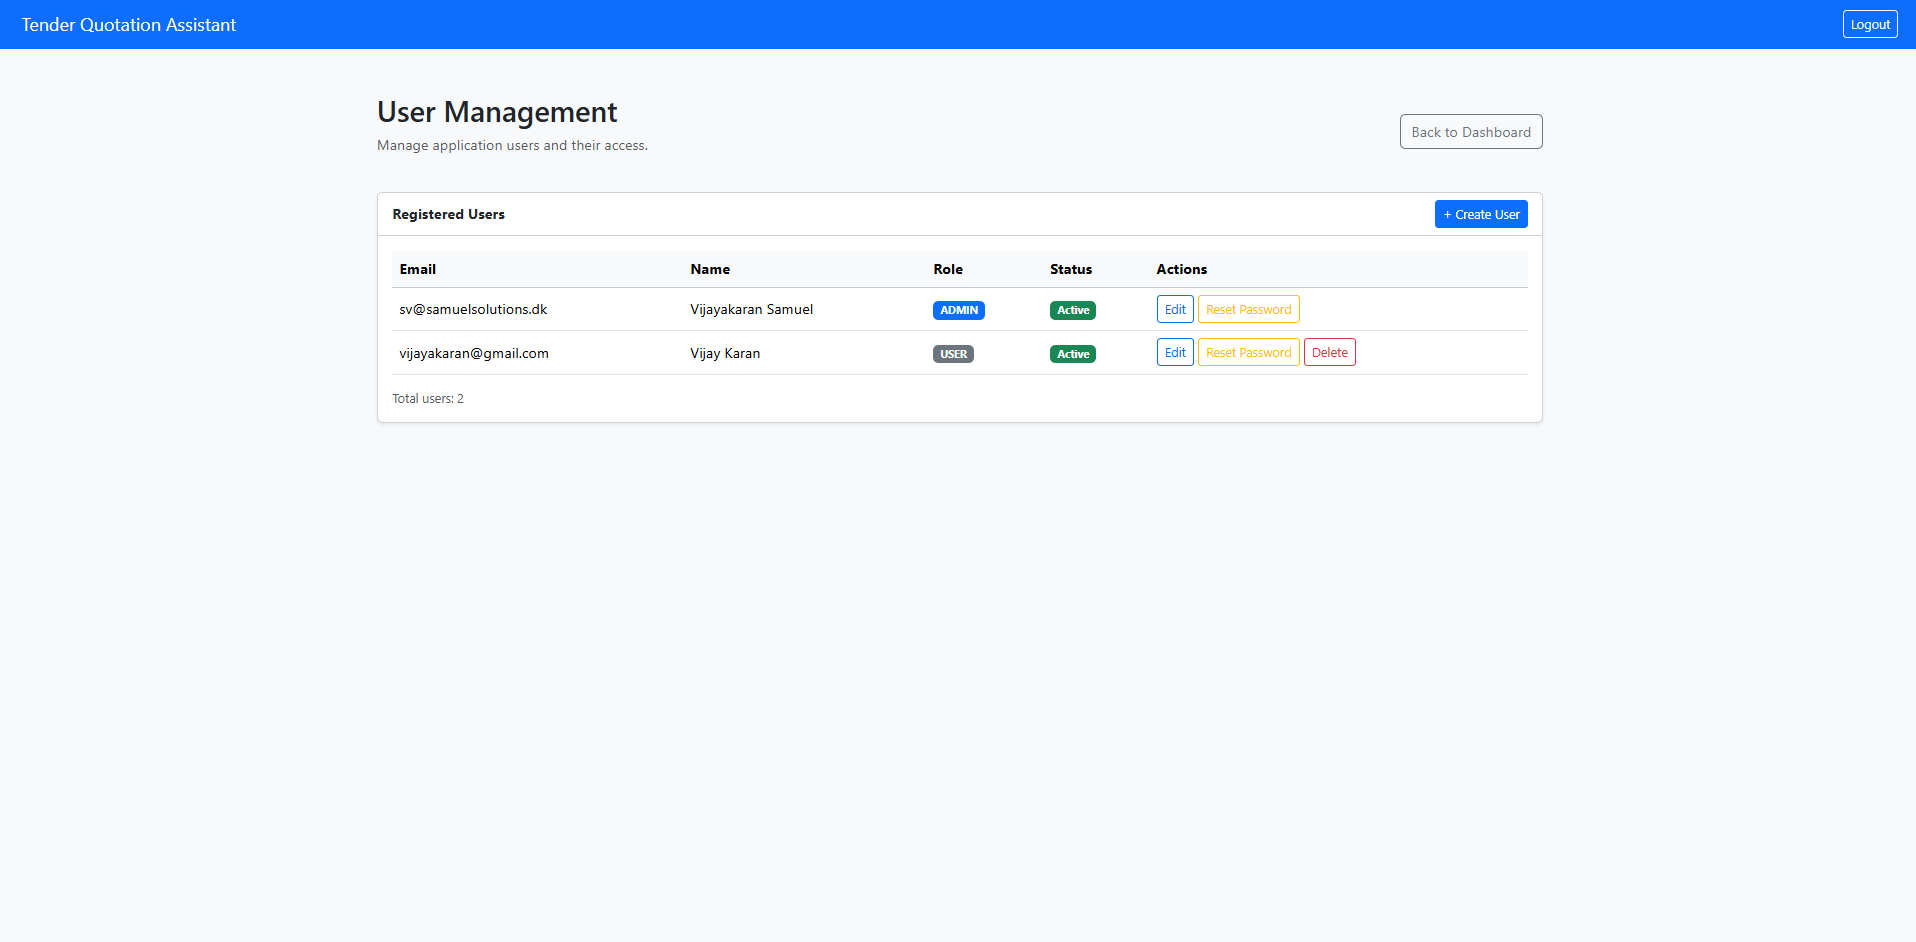
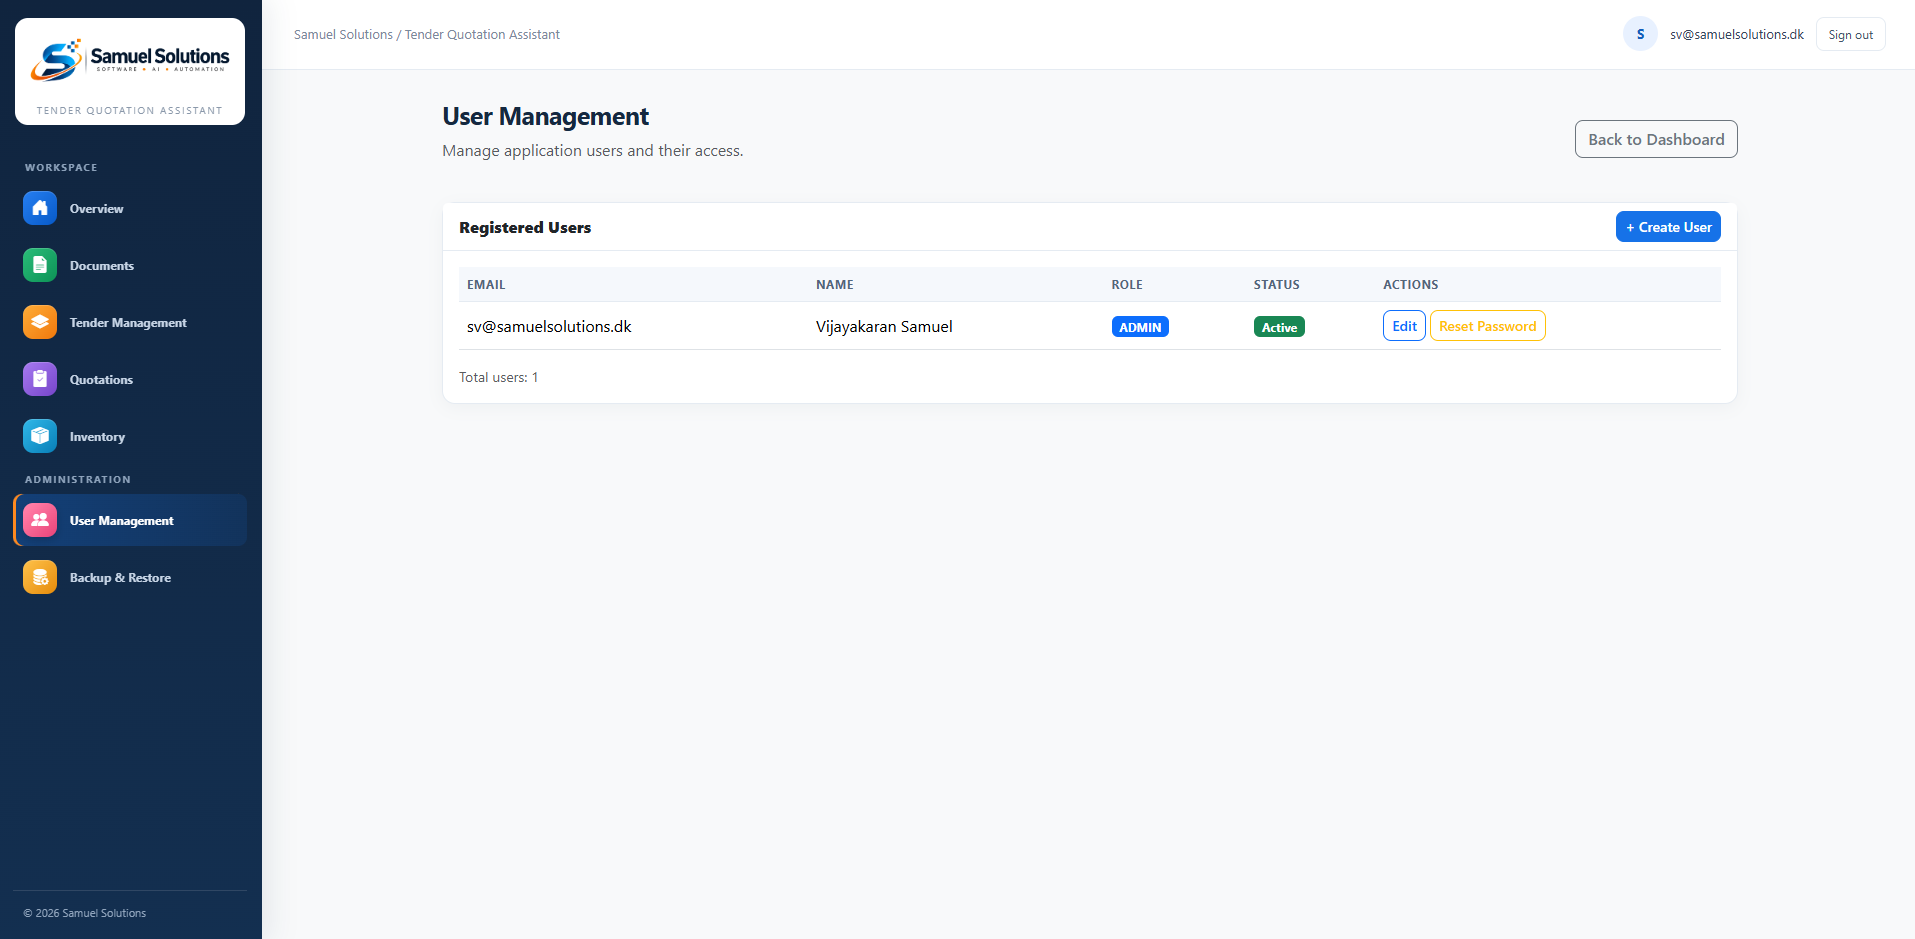
Tender screen short updated.

diff --git a/app/page.tsx b/app/page.tsx
@@ -669,45 +669,55 @@ export default function Home() {
 
               </div>
 
-              {/* RIGHT - APPLICATION SCREENSHOTS, ARRANGED LIKE PROJECT 02 */}
+              {/* RIGHT - CURRENT TENDER QUOTATION ASSISTANT SCREENS */}
               <div className="flex items-center justify-center bg-zinc-100 p-5 lg:p-6">
                 <div className="grid w-full grid-cols-2 gap-3">
                   {[
                     {
-                      src: "/projects/TenderAI/AdminDashboard.png",
-                      alt: "Tender Quotation Assistant admin dashboard",
+                      src: "/projects/TenderAI/Dashboard.png",
+                      alt: "Tender Quotation Assistant admin dashboard showing users, tenders and activity",
                       title: "Admin Dashboard",
                       featured: true,
                     },
                     {
-                      src: "/projects/TenderAI/UserManagement.png",
-                      alt: "User management",
-                      title: "User Management",
+                      src: "/projects/TenderAI/Login.png",
+                      alt: "Tender Quotation Assistant secure login screen",
+                      title: "Login",
                     },
                     {
-                      src: "/projects/TenderAI/DocumentManagement.png",
-                      alt: "Tender document management",
-                      title: "Document Management",
+                      src: "/projects/TenderAI/TenderUpload.png",
+                      alt: "Tender document upload screen",
+                      title: "Tender Upload",
                     },
                     {
-                      src: "/projects/TenderAI/InventoryManagement.png",
-                      alt: "Product inventory and pricing",
-                      title: "Inventory Management",
-                    },
-                    {
-                      src: "/projects/TenderAI/TenderManagement.png",
-                      alt: "Tender processing and status",
+                      src: "/projects/TenderAI/TenderAfterUpload.png",
+                      alt: "Tender management screen after document upload",
                       title: "Tender Management",
                     },
                     {
-                      src: "/projects/TenderAI/QuotationManagement.png",
-                      alt: "Quotation management overview",
-                      title: "Quotation Management",
+                      src: "/projects/TenderAI/TenderCustomerConfirmation.png",
+                      alt: "Reviewing extracted customer information and confirming a customer",
+                      title: "Customer Confirmation",
                     },
                     {
-                      src: "/projects/TenderAI/QuotationInformation.png",
-                      alt: "Quotation details, product prices and totals",
-                      title: "Quotation Details",
+                      src: "/projects/TenderAI/Inventory.png",
+                      alt: "Veterinary product inventory with stock and pricing",
+                      title: "Inventory Management",
+                    },
+                    {
+                      src: "/projects/TenderAI/QuotationCreation.png",
+                      alt: "Quotation creation with product quantities, price snapshots and quote prices",
+                      title: "Quotation Creation",
+                    },
+                    {
+                      src: "/projects/TenderAI/UserManagement.png",
+                      alt: "Application user and role management",
+                      title: "User Management",
+                    },
+                    {
+                      src: "/projects/TenderAI/Backup_Restore.png",
+                      alt: "Application backup and restore screen",
+                      title: "Backup & Restore",
                     },
                   ].map((item) => (
                     <div
